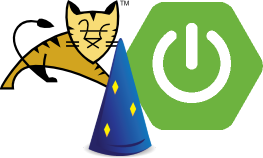
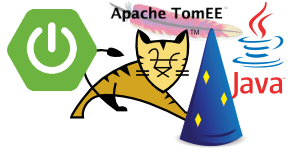
Added TomEE docs

diff --git a/_future_posts/2015-09-29-javaee-aws.html b/_future_posts/2015-09-29-javaee-aws.html
@@ -1,34 +1,23 @@
 ---
 layout: blog
-subtitle: "Deploying Spring Boot Apps on EC2"
-permalink: /blog/spring-boot-ec2.html
+subtitle: "Deploying Java EE Apps on AWS"
+permalink: /blog/javaee-aws.html
 ---
 <div>
-    <p>Lately the JVM-world has finally started embracing solutions that just work.
-        Gone are the days where you had to manually wire together many components and write large amounts of XML configuration
-        just to make things work. Today it is all about being productive from the get go. And to us this is really music to our ears.
-        Our products (<a href="http://flywaydb.org">Flyway</a> &amp; <a href="https://boxfuse.com">Boxfuse</a>) have always adhered to this exact design principle from the start.
-        And so regardless of whether
-    you easily want to migrate your
-        relational databases or fuse your applications into bootable apps, <a href="http://flywaydb.org">Flyway</a> &amp; <a href="https://boxfuse.com">Boxfuse</a>
-        work very had to make you successful. Rapidly and reliably.</p>
+    <p>At <a href="https://boxfuse.com">Boxfuse</a> we love solutions that just work. And that's why, when it comes to
+        Java EE, we've grown very fond of <a href="http://tomee.apache.org">Apache TomEE</a>. Unlike traditional heavy
+        and complex application servers, TomEE combines the swiftness of Tomcat with the benefits of standard Java EE.</p>
 
-    <p>Pivotal has now gone the same way and tied their entire portfolio of Spring frameworks and libraries
-    into a fantastic framework called <a href="http://projects.spring.io/spring-boot/">Spring Boot</a>. It is a turn-key solution to the Spring ecosystem.</p>
-
-    <p>At its core, <a href="http://projects.spring.io/spring-boot/">Spring Boot</a> combines your
-    application with an embedded container and all its other libraries into a single executable jar that can easily
-    be deployed onto any system. It adds lots of auto-configuration and integration options to make your
-        application production-ready from day one. In fact Spring Boot even offers
-        <a href="http://docs.spring.io/spring-boot/docs/current/reference/html/howto-database-initialization.html#howto-execute-flyway-database-migrations-on-startup">out of the box integration for
-        Flyway</a> so adopting industry best practices like database migrations has never been easier.</p>
+    <p>Today we are happy to announce that we have added TomEE to Boxfuse's selection of payloads that can be deployed
+        effortlessly to VirtualBox and AWS. Just like <a href="/docs/payloads/dropwizard.html">Dropwizard</a>,
+        <a href="/docs/payloads/springboot.html">Spring Boot</a>, <a href="/docs/payloads/war.html">Tomcat</a> and
+        <a href="/docs/payloads/jar.html">(executable) jar files</a>, you can now fuse TomEE applications into
+        immutable images with a single command. These images can then be deployed unchanged to VirtualBox and AWS
+        with zero downtime updates.</p>
 
     <div class="blog-post-image center">
-        <img src="/assets/posts/spring-boot-ec2/springboot-ec2.png" alt="Spring Boot to AWS">
+        <img src="/assets/posts/javaee-aws/tomee-aws.png" alt="TomEE to EC2">
     </div>
-
-    <p>In this post we'll <strong>take Spring Boot's idea of executable jars to its natural conclusion</strong>:
-        fusing your Spring Boot application together with a JVM and a kernel into a immutable bootable app that can be run unchanged on both VirtualBox and EC2.</p>
 
     <h2 class="blog-post-section">Prerequisites</h2>
 

diff --git a/docs/payloads/tomee.html b/docs/payloads/tomee.html
@@ -1,0 +1,50 @@
+---
+layout: docs
+menu: tomee
+subtitle: 'TomEE'
+---
+<div id="tomee">
+    <p class="doc-title">TomEE</p>
+
+    <p><img src="/assets/img/tomee.png"></p>
+
+    <p>Boxfuse supports Java EE apps written in Java or any other language and packaged as a <strong>.war file</strong> running on <strong>TomEE 1.7.x</strong> using either <strong>OpenJDK 7.x or 8.x</strong>.</p>
+
+    <p>If your .war file contains a <code>WEB-INF/services.xml</code> file, Boxfuse will automatically run it using TomEE instead of Tomcat.
+        By default it uses TomEE Web Profile, but it will automatically select TomEE Plus if you have defined any JMS resources.</p>
+
+    <p>You can override the automatic behavior and force a particular TomEE edition to be used by passing in <code>-components.tomee-webprofile=1.7.2</code> (for TomEE Web Profile)
+    or <code>-components.tomee-plus=1.7.2</code> (for TomEE Plus).</p>
+
+    <p class="doc-section">HTTP</p>
+
+    <p>By default, Boxfuse will automatically configure TomEE to listen to HTTP traffic on port 80.</p>
+
+    <p class="doc-section">SSL (TLS) / HTTPS</p>
+
+    <p>To use <strong>HTTPS</strong> simply add the KeyStore containing your SSL certificate inside the .war file as
+        <code>/WEB-INF/keystore.jks</code>. It must be secured with the standard password <em>changeit</em>.
+        Boxfuse will then automatically configure Tomcat to start serving traffic via HTTPS on port 443, as well as
+        <strong>automatically redirect any insecure HTTP traffic to a secure HTTPS connection</strong>.
+    </p>
+
+    <p class="doc-section">Root Certificates</p>
+
+    <p>By default, Boxfuse uses the <strong>same root certificate bundle as the latest version of Firefox</strong>.
+        You can, however, ship your own set of root certificates, by placing them in a KeyStore at <code>/WEB-INF/cacerts</code>.
+        Boxfuse will then automatically configure both the JRE and Tomcat to use these instead.
+    </p>
+
+    <p class="doc-section">Java Agents</p>
+
+    <p>By default Boxfuse will activate the OpenEJB Java Agent.</p>
+
+    <p>If you wish to launch the JRE with one or more additional Java Agents, simply place the Java Agent .jar files under
+        <code>/WEB-INF/javaagents/</code>.
+        Boxfuse will then <strong>automatically configure the JRE to use these Java Agents</strong>.
+    </p>
+
+    <p class="next-steps">
+        <a class="btn btn-primary" href="/docs/payloads/jar.html">Executable Jar <i class="fa fa-arrow-right"></i></a>
+    </p>
+</div>

diff --git a/_layouts/docs.html b/_layouts/docs.html
@@ -15,7 +15,8 @@ title: Documentation
                     <li class="nav-header">Payloads</li>
                     <li {% if page.menu == 'springboot' %} class="active" {% endif %}><a href="/docs/payloads/springboot.html">Spring Boot</a></li>
                     <li {% if page.menu == 'dropwizard' %} class="active" {% endif %}><a href="/docs/payloads/dropwizard.html">Dropwizard</a></li>
-                    <li {% if page.menu == 'war' %} class="active" {% endif %}><a href="/docs/payloads/war.html">Tomcat / War</a></li>
+                    <li {% if page.menu == 'war' %} class="active" {% endif %}><a href="/docs/payloads/war.html">Tomcat</a></li>
+                    <li {% if page.menu == 'tomee' %} class="active" {% endif %}><a href="/docs/payloads/tomee.html">TomEE</a></li>
                     <li {% if page.menu == 'jar' %} class="active" {% endif %}><a href="/docs/payloads/jar.html">Executable Jar</a></li>
 
                     <li class="nav-header">Clients</li>

diff --git a/docs/payloads/dropwizard.html b/docs/payloads/dropwizard.html
@@ -95,6 +95,6 @@ trustStorePassword: my0th3rPwd</pre>
     <p>You can find a Dropwizard sample app for Boxfuse on GitHub at <strong><a href="https://github.com/boxfuse/dwunikernel">boxfuse/dwunikernel</a></strong>.</p>
 
     <p class="next-steps">
-        <a class="btn btn-primary" href="/docs/payloads/war.html">Tomcat / War <i class="fa fa-arrow-right"></i></a>
+        <a class="btn btn-primary" href="/docs/payloads/war.html">Tomcat <i class="fa fa-arrow-right"></i></a>
     </p>
 </div>

diff --git a/index.html b/index.html
@@ -210,6 +210,7 @@ tab: home
             <img src="/assets/img/linux.png" title="Linux Kernel">
             <img src="/assets/img/java.png" title="Java">
             <img src="/assets/img/tomcat.png" title="Tomcat">
+            <img src="/assets/img/tomee-small.png" title="TomEE">
             <img src="/assets/img/springboot.png" title="Spring Boot">
             <img src="/assets/img/dropwizard.png" title="Dropwizard">
         </div>

diff --git a/docs/payloads/war.html b/docs/payloads/war.html
@@ -37,6 +37,6 @@ subtitle: 'Tomcat / War'
     </p>
 
     <p class="next-steps">
-        <a class="btn btn-primary" href="/docs/payloads/jar.html">Executable Jar <i class="fa fa-arrow-right"></i></a>
+        <a class="btn btn-primary" href="/docs/payloads/tomee.html">TomEE <i class="fa fa-arrow-right"></i></a>
     </p>
 </div>

diff --git a/docs/releasenotes.html b/docs/releasenotes.html
@@ -6,6 +6,12 @@ subtitle: 'Release Notes'
 <div id="faq">
     <p class="doc-title">Release Notes for the Boxfuse Client</p>
 
+    <p class="doc-section">Version 1.11.0 (2015-09-27)</p>
+
+    <ul>
+        <li>Added TomEE support</li>
+    </ul>
+
     <p class="doc-section">Version 1.10.2 (2015-09-19)</p>
 
     <ul>
